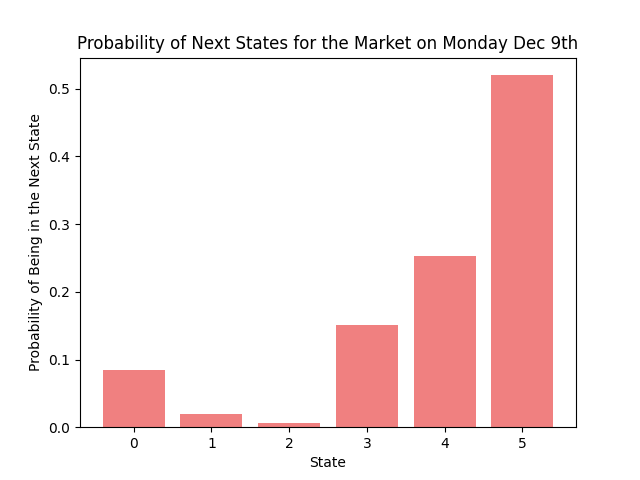
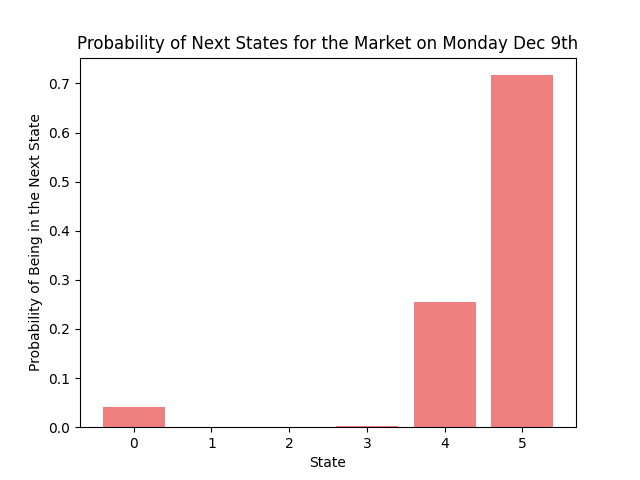
validation

diff --git a/HMM.py b/HMM.py
@@ -161,7 +161,7 @@ class HiddenMarkovModel:
         print(best_path)
         return best_path, best_path_prob
     
-    def baum_welch(self, observation_sequence, iterations=10):
+    def baum_welch(self, observation_sequence, iterations=15):
         """
         Baum-Welch algorithm (Expectation-Maximization) to estimate HMM parameters.
         """
@@ -300,7 +300,7 @@ if __name__ == "__main__":
     predictions = []
     actual_deciles = []
     errors = []
-    for i in range(100,200):
+    for i in range(0,200):
         snip = df['decile'][i:i+10].copy()
         snip.index -= i
         model.viterbi(snip)

diff --git a/lab_notebook.md b/lab_notebook.md
@@ -41,4 +41,16 @@ Initial Commit
 - discussed future steps for the project
 - figuring out automatic model validation
 
+## 12/18/24
+- implemented said model validation
+- found that the model slightly outperforms baseline this is not significantly significant, and for it to be, we would need about 10 years of training data:
+We can calculate the mean absolute error of the discrete uniform distribution ($a = 1,b=10$), and we find that the best constant is 2.5.
+Our goal therefore, is to show that our model beats this constant in a statistically significant way, using the CLT
+$$\frac{\bar{x}-\mu}{\sigma/\sqrt{n}}$$
+we can substitue in for the properties of this distribution to find
+$$\frac{\bar{x}-2.5}{2.872/\sqrt{n}}$$
+which we would want to give us a test statistic larger than about 1.67.
+When we tune the hyperparameter for the baum-welch, we can minimize $\bar{x}$ to about 2.35, but we start to overfit after about 15 iterations. With this in mind, we would need to have a lot of training data to make this fraction positive and keep the market in the same state. This seems about impossible, and thus keeping this statistically admissible would be very hard.
+
+It does still, however, probably outperform the market ever so slightly.
 >>>>>>> 86cfb90 (Updates on data)
